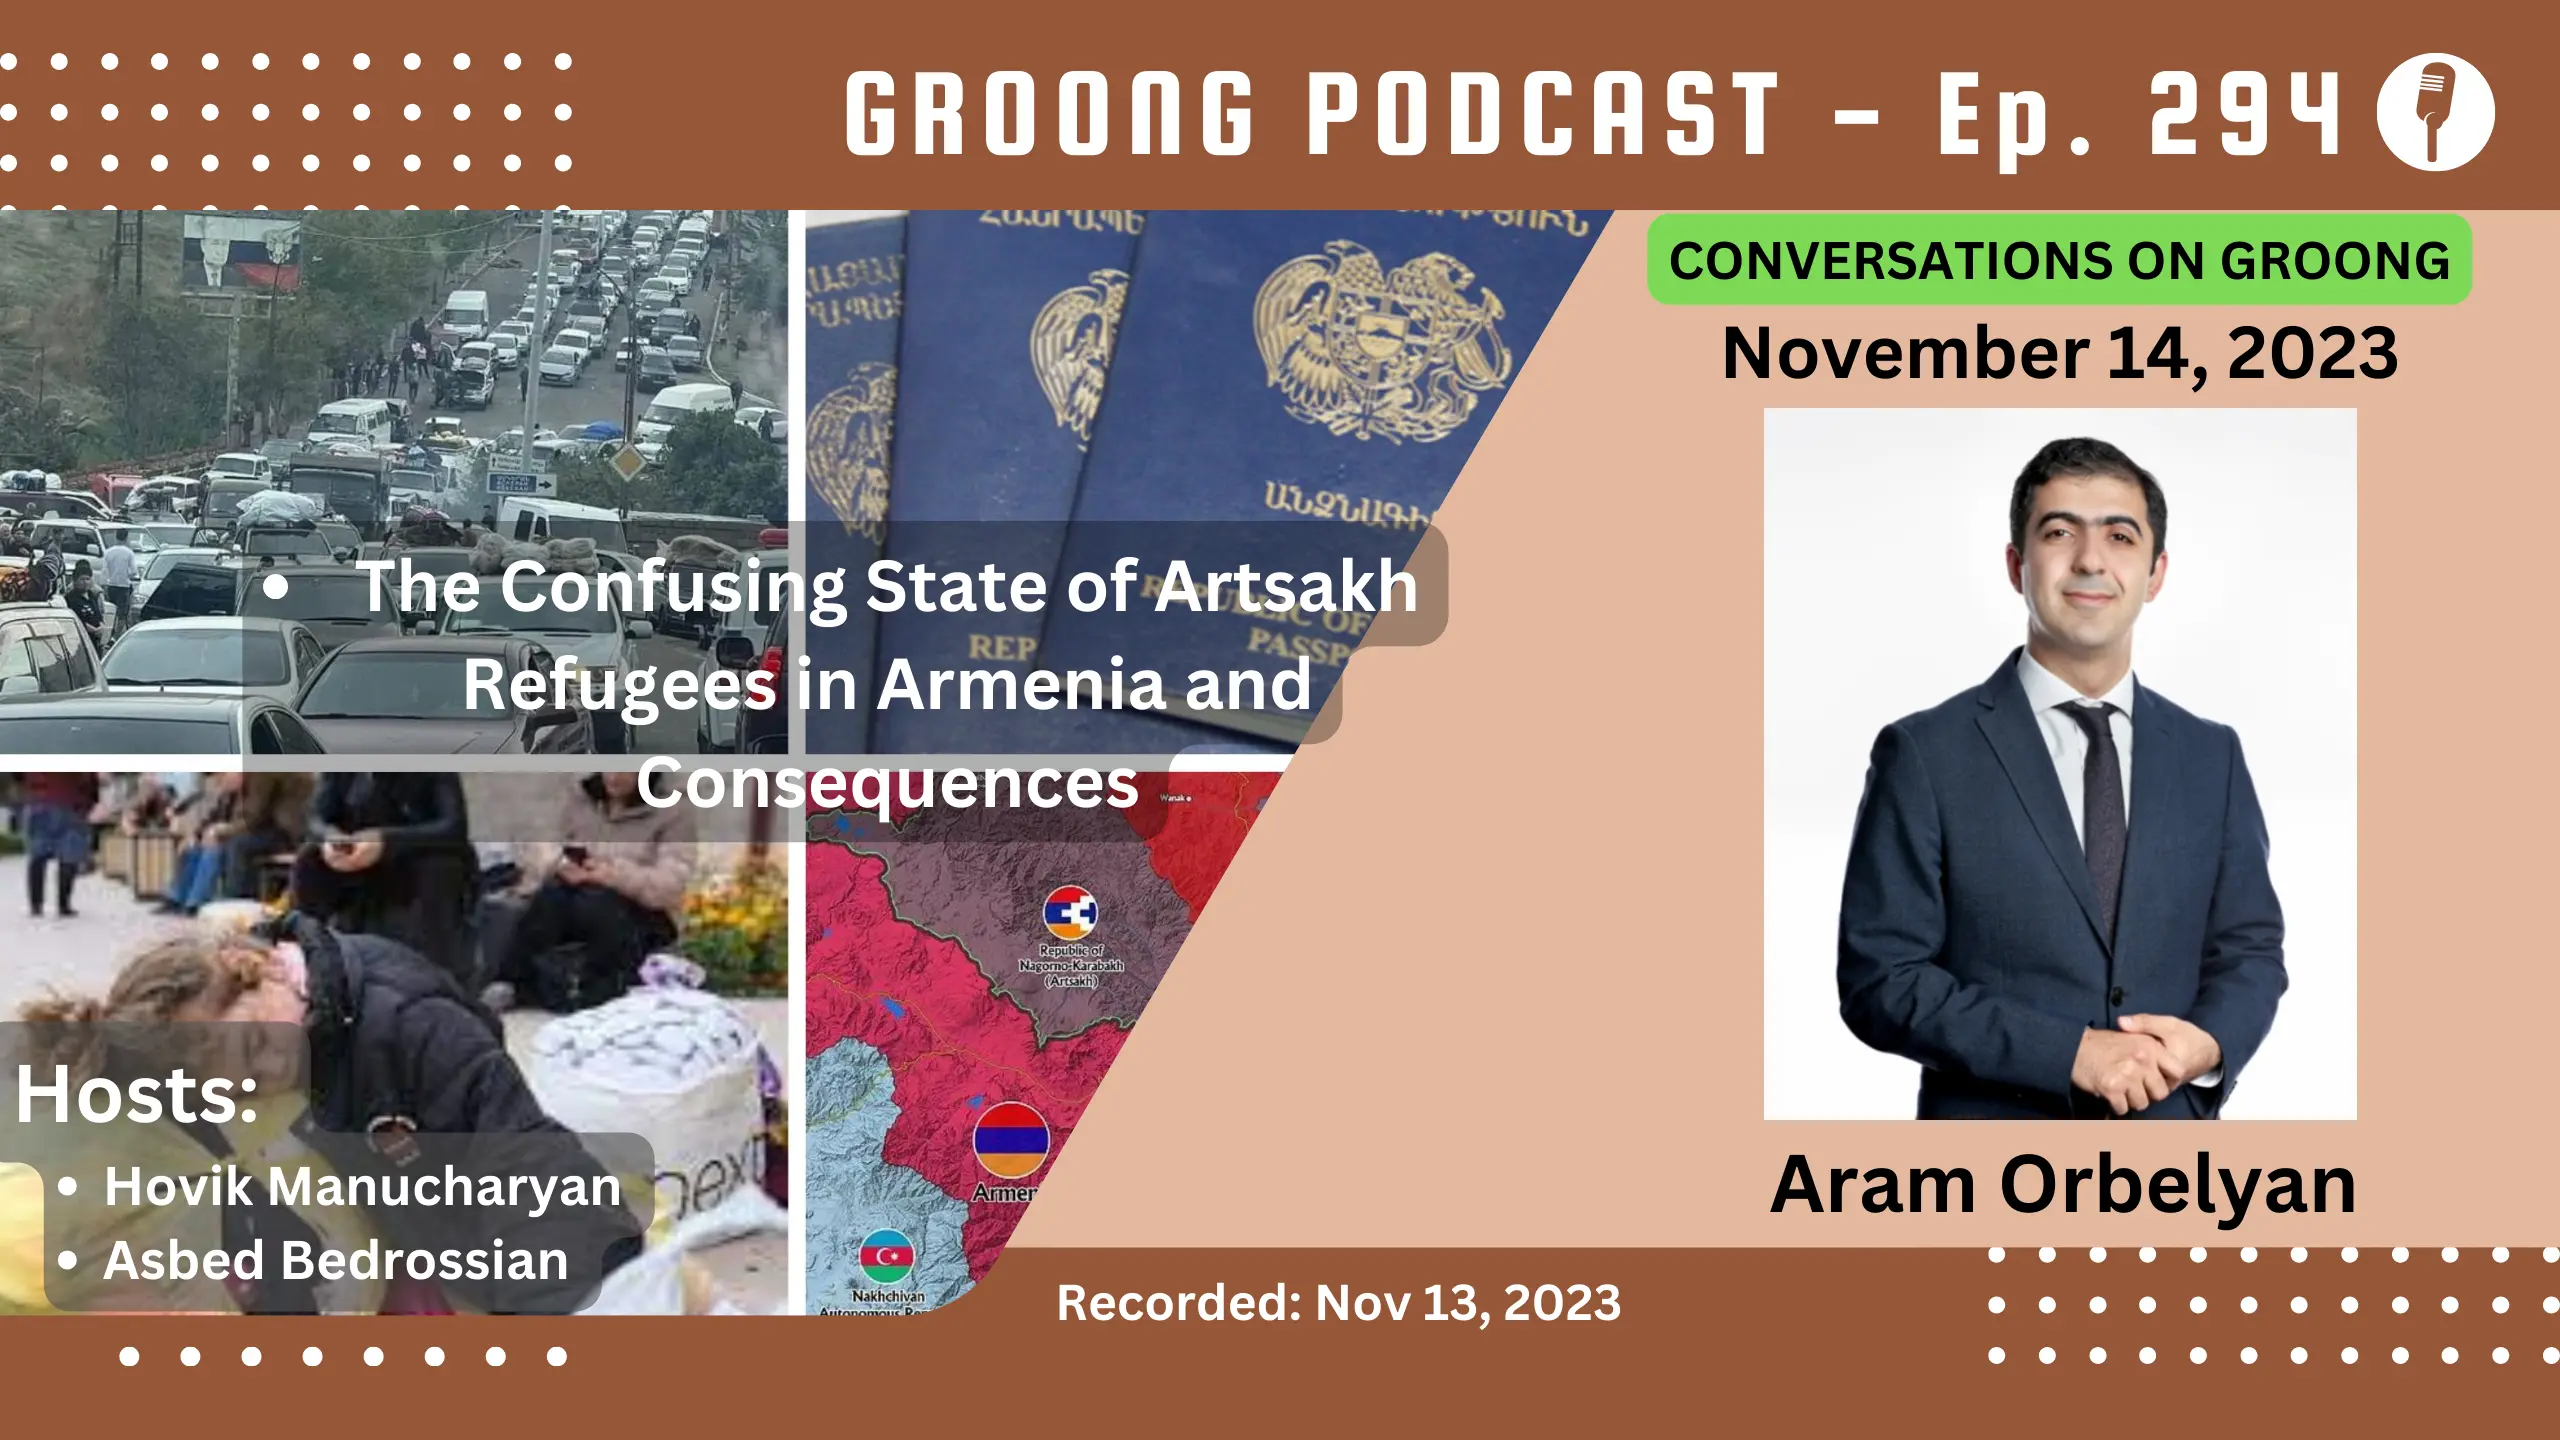
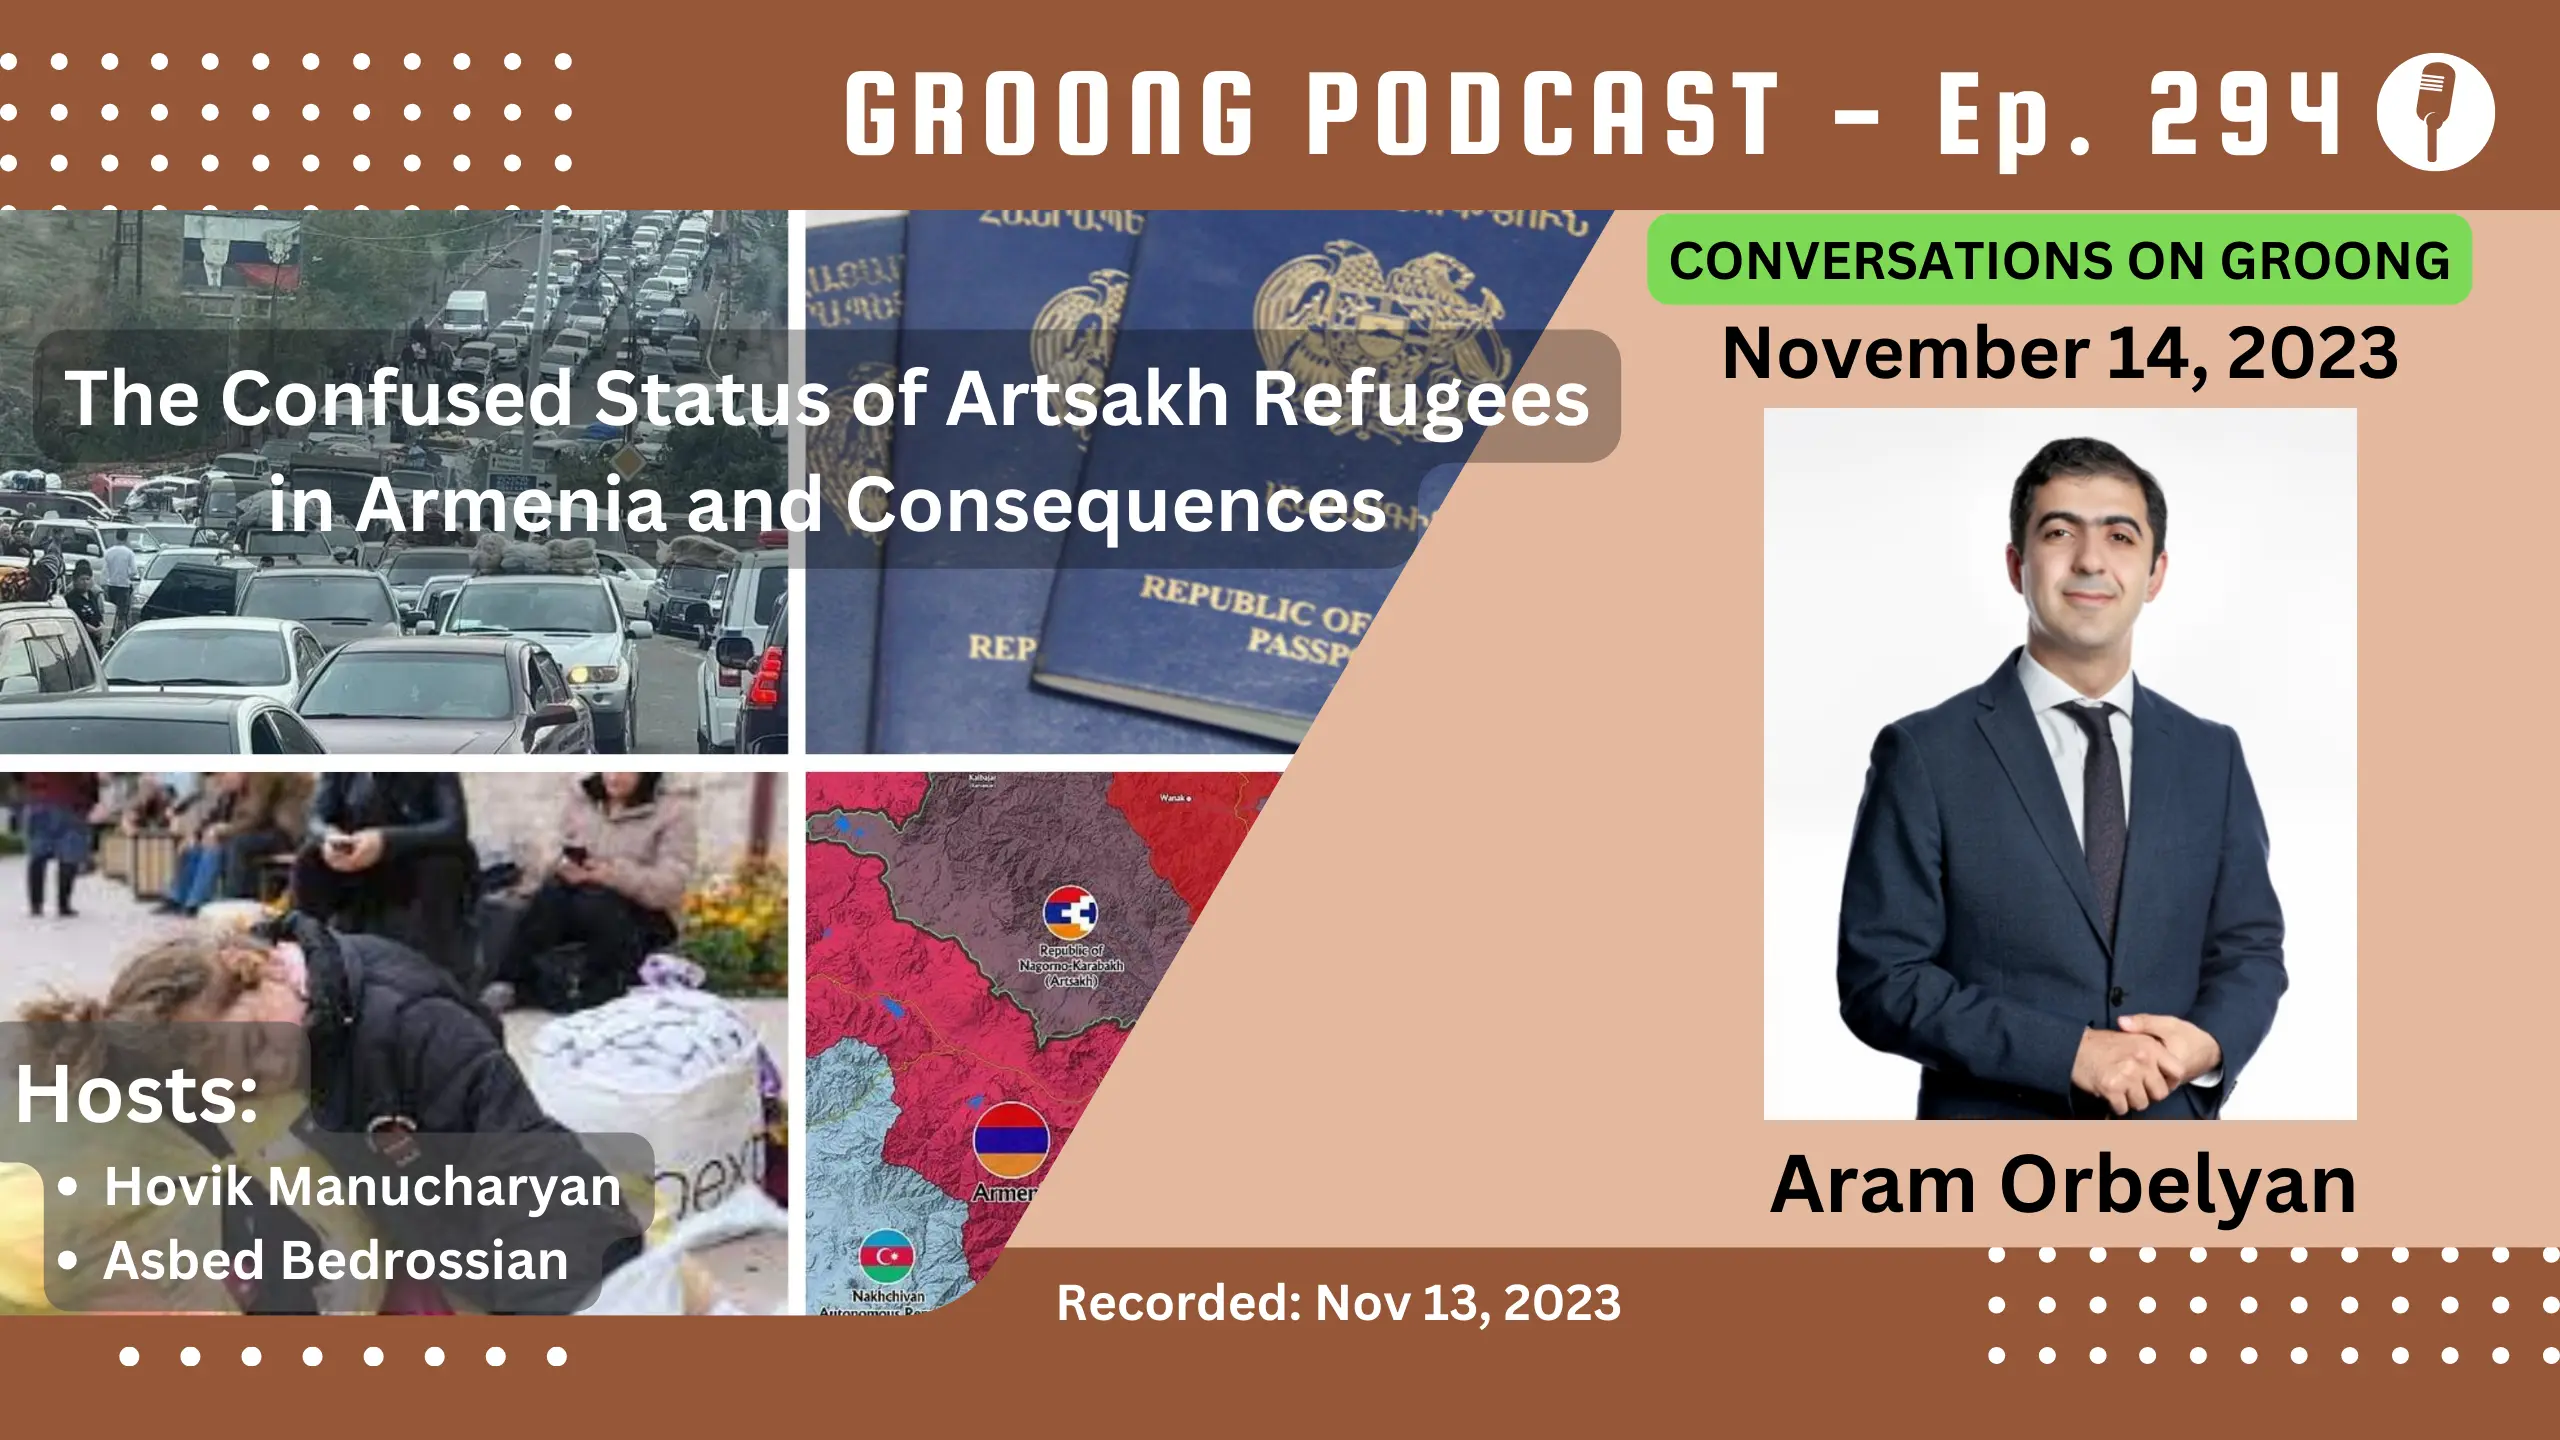
Update to content of EMore content change to EP 294P 294

Changed region(s): [[0.0, 0.2188, 0.6562, 0.5938]]

diff --git a/content/episode/294-aram-orbelyan-confused-status-of-artsakh-refugees-in-armenia-consequences.md b/content/episode/294-aram-orbelyan-confused-status-of-artsakh-refugees-in-armenia-consequences.md
@@ -2,16 +2,16 @@
 Date = 2023-11-14T22:12:00+04:00
 upcoming = true
 
-podcast_file = ""
-podcast_duration = ""
-podcast_bytes = ""
+podcast_file = "13973128-aram-orbelyan-the-confused-status-of-artsakh-refugees-in-armenia-and-consequences-ep-294-nov-14-2023.mp3"
+podcast_duration = "17551583"
+podcast_bytes = "1460"
 youtube = ""
 
 episode_image = "img/episode/294/thumbnail-294.webp"
 episode_banner = "img/episode/294/banner-294.webp"
 images = ["img/episode/294/banner-294.webp"]
 
-title = "Aram Orbelyan - The Confused State of Artskah Refugees in Armenia and Consequences| Ep 294 - Nov 14, 2023"
+title = "Aram Orbelyan - The Confused Status of Artskah Refugees in Armenia and Consequences| Ep 294 - Nov 14, 2023"
 subtitle = "Conversations on Groong - 11/14/2023"
 
 guests = ["aorbelyan"]
